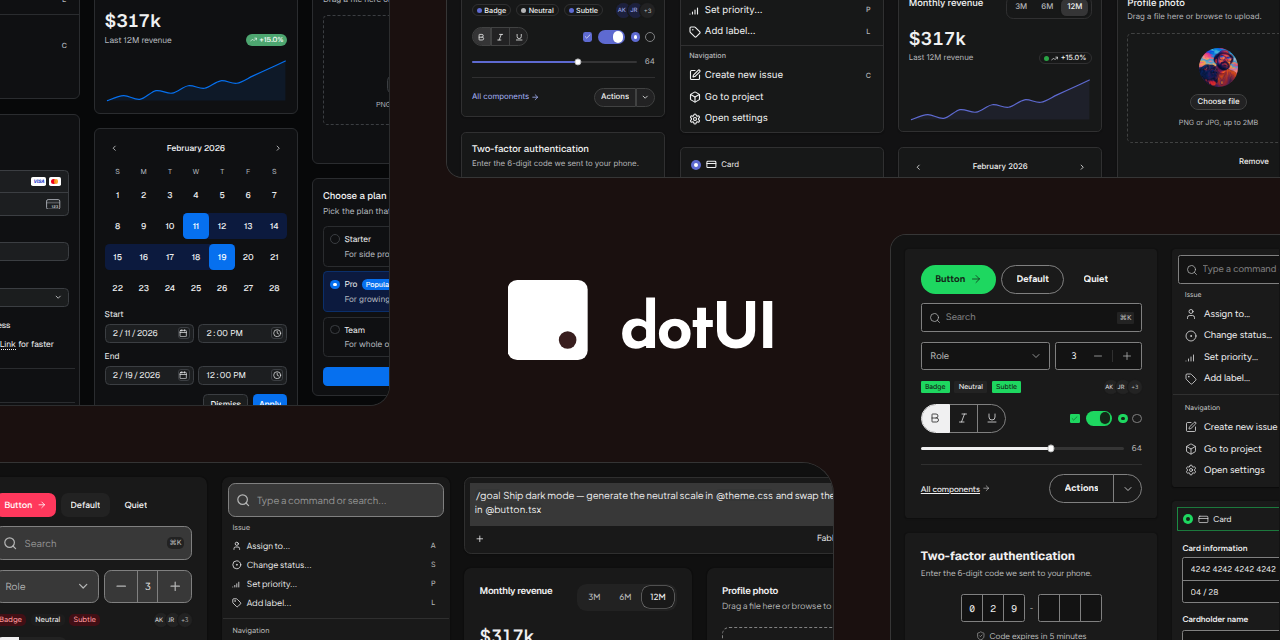
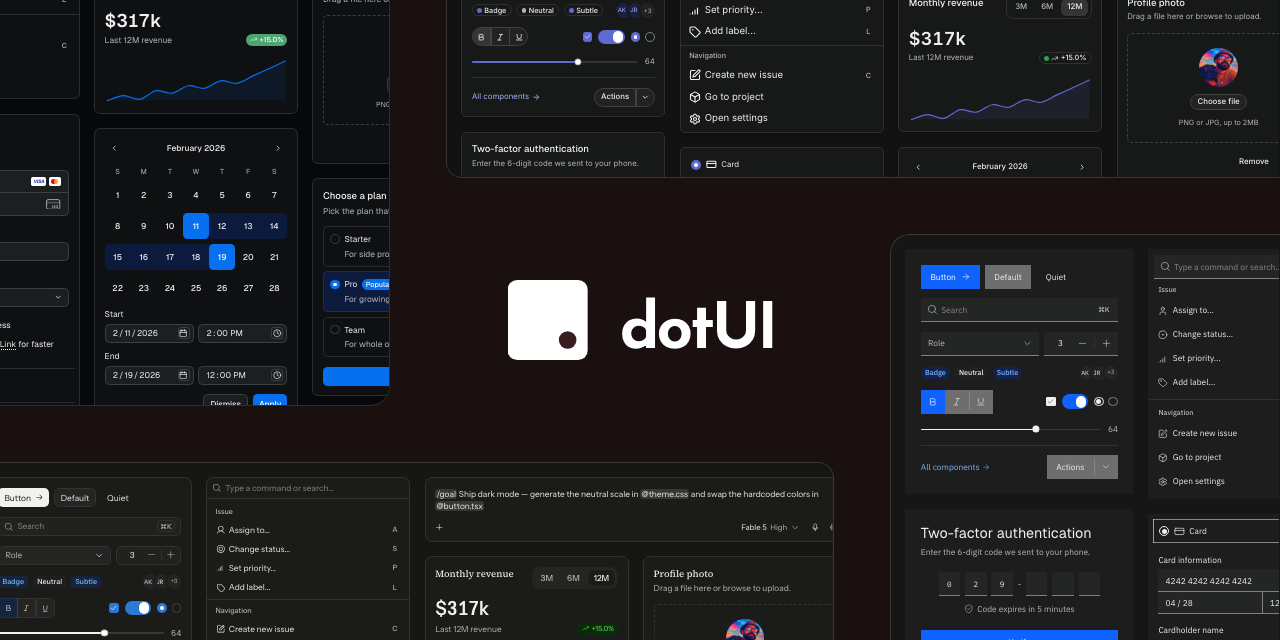
feat(brand): swap the cover's Airbnb and Spotify for Claude and Carbon

diff --git a/www/src/modules/marketing/cover.tsx b/www/src/modules/marketing/cover.tsx
@@ -45,7 +45,7 @@ const SLOTS: {
     scroll: [0, 182],
   },
   {
-    preset: "spotify",
+    preset: "carbon",
     inset: {
       bottom: BLEED,
       right: BLEED,
@@ -54,14 +54,14 @@ const SLOTS: {
     },
   },
   {
-    preset: "airbnb",
+    preset: "claude",
     inset: {
       bottom: BLEED,
       left: BLEED,
       right: fromCenter(GUTTER - HALF_W),
       top: fromCenter(HALF_H),
     },
-    scroll: [60, 0],
+    scroll: [46, 0],
   },
 ]
 
